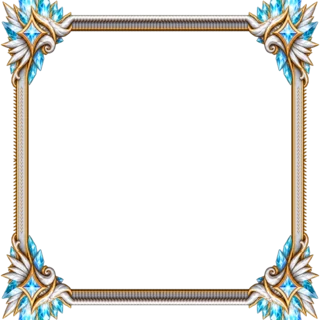
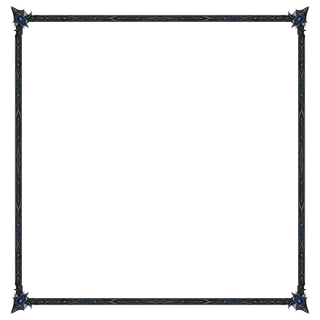
Thin dark-fantasy Cosmic, Divine and Celestial squares; lower hero heads; battle heroes match enemy size

Changed region(s): [[0.0, 0.0, 1.0, 1.0]]

diff --git a/src/theme/scene/rarity.css b/src/theme/scene/rarity.css
@@ -225,3 +225,8 @@ html :has(> .rx-slot) {
 }
 html .item-slot:has(> .rx-slot) .item-enchant-label, html .mv-card:has(.rx-slot) .mv-card-plus { left: 8%; top: 8%; }
 html .item-slot:has(> .rx-slot) .item-level-label, html .mv-card:has(.rx-slot) .mv-card-lv, html .hero-portrait-rarity:has(> .rx-slot) .hero-level-badge { right: 8%; bottom: 8%; }
+/* Battle (Founder 2026-10-04: heroes exactly the size of enemies): the hero picture fills the same box as an
+   enemy portrait and the square frame wraps around it from outside instead of shrinking the picture. */
+html .arena-portrait:has(> .rx-slot):not(#rx-a):not(#rx-b) { overflow: visible !important; -webkit-mask: none !important; mask: none !important; }
+html .arena-portrait > .rx-slot { inset: -9.5%; overflow: visible; }
+html .arena-portrait:has(> .rx-slot) > .arena-portrait-impact-layer { overflow: hidden; border-radius: 3px; }

diff --git a/src/game/portraits.ts b/src/game/portraits.ts
@@ -31,7 +31,8 @@ export function heroPortraitStyle(heroId: string | undefined, heroClass: HeroCla
     width: '100%',
     height: '100%',
     objectFit: 'cover',
-    objectPosition: '50% 24%',
+    // Hero art is 349x887; a high crop keeps the head clear of the frame's top rim in square and card boxes.
+    objectPosition: '50% 9%',
     ...(isWarrior ? { transform: 'scale(0.94)' } : {}),
   };
 }
